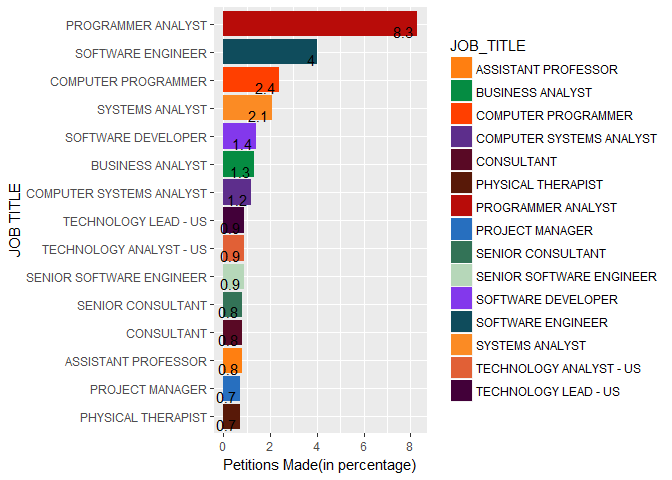
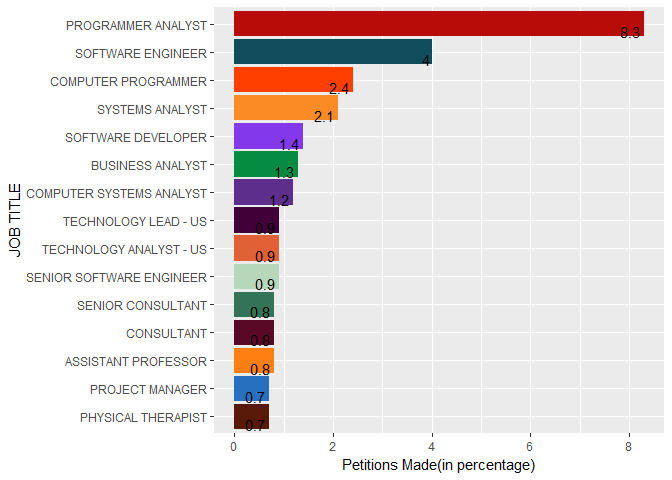
fix title of both markdowns

Changed region(s): [[0.3125, 0.0, 0.9688, 1.0], [0.9062, 0.9062, 0.9375, 0.9375]]

diff --git a/normal_analysis.md b/normal_analysis.md
@@ -1,4 +1,4 @@
-Analysis of Data Science jobs from H1B Visa Petitions Data
+Analysis H1B Visa Petitions Data
 ================
 
 Analysis of the H1B visa petitions made.
@@ -149,7 +149,8 @@ ggplot(data = top_employer, aes(x = reorder(JOB_TITLE, percent),
                                 y = percent, fill = JOB_TITLE)) +
     geom_bar(stat = "identity") +
     geom_text(aes(label = percent), vjust = 1.1, hjust = 1.2) + 
-    labs(x = "JOB TITLE", y = "Petitions Made(in percentage)") + 
+    labs(x = "JOB TITLE", y = "Petitions Made(in percentage)") +
+    theme(legend.position = "none") +
     scale_fill_manual(values = mycolors) +
     coord_flip()
 ```

diff --git a/ds_jobs_analysis.md b/ds_jobs_analysis.md
@@ -1,4 +1,4 @@
-H1B Visa Petitions Data
+Analysis of Data Science jobs from H1B Visa Petitions Data
 ================
 
 ### We'll start by loading the necessary libraries.
